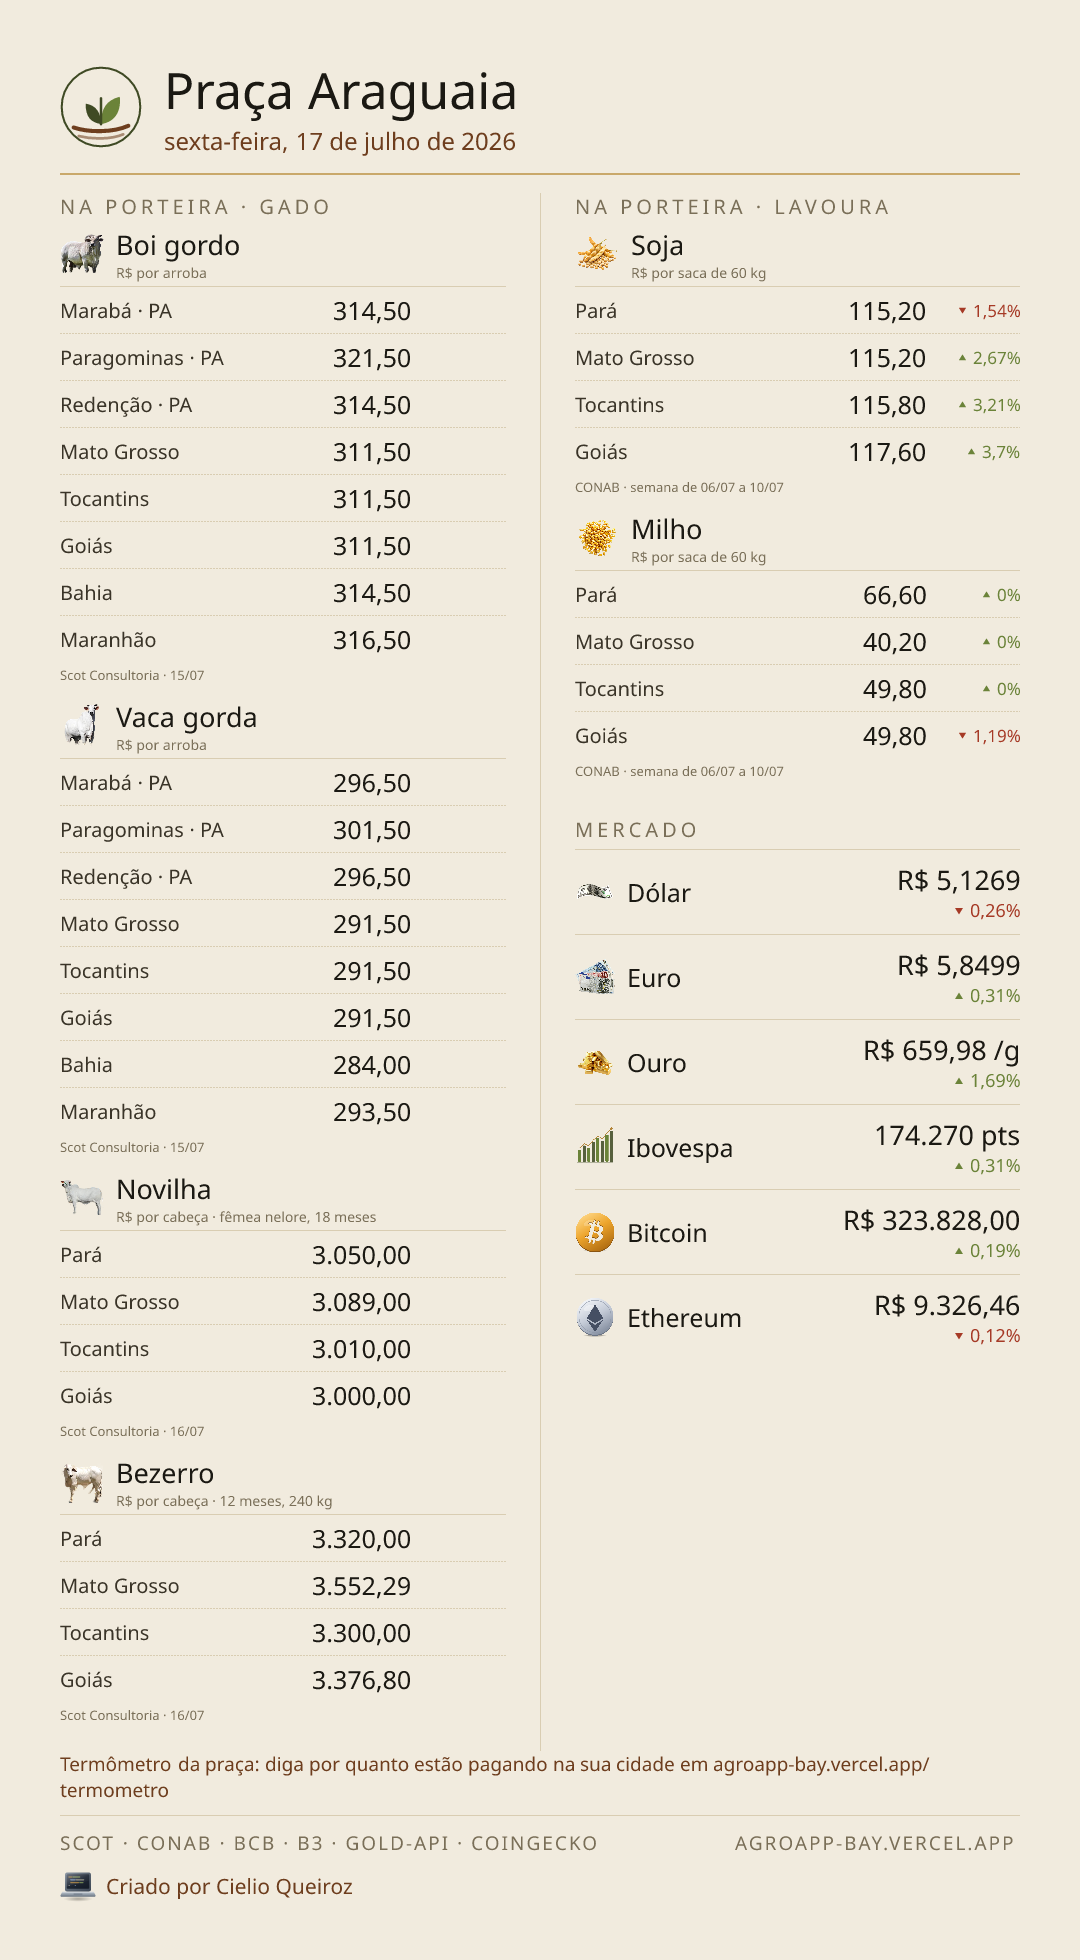
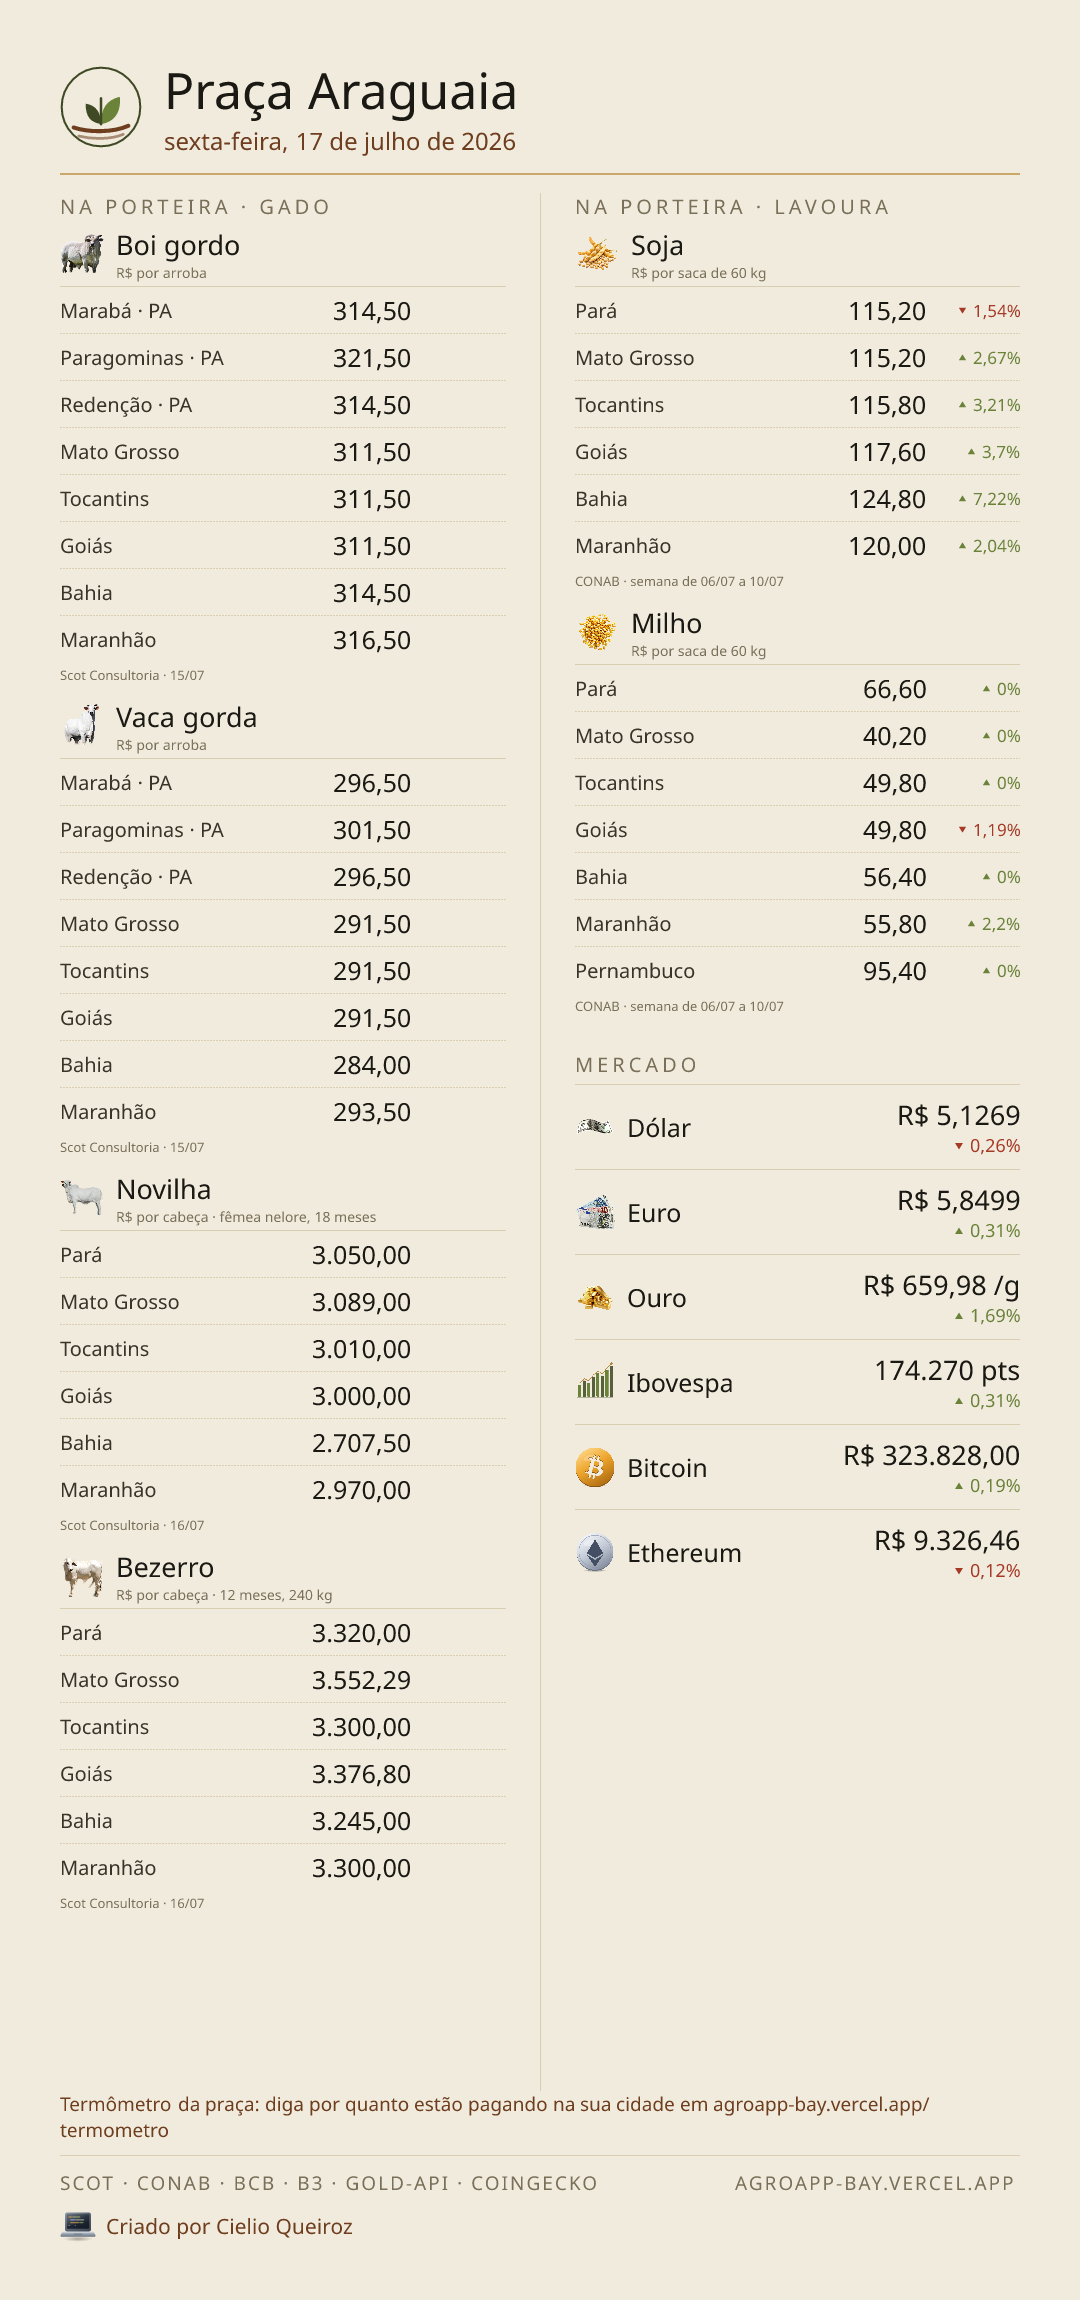
fix(boletim): card mostra todos os estados (Pernambuco no milho, BA/MA nos grãos)
O card recortava os produtos por UF (soja, milho, novilha, bezerro) só à
casa (PA/MT/TO/GO), então Pernambuco não aparecia no milho e BA/MA
sumiam dos grãos — divergindo do site e do que o dono pediu. Agora o
card mostra todos os estados, igual ao site; PE aparece só no milho
(único com dado). A coluna do gado cresceu, então a altura foi de 1960
para 2300 (medida no render, sem estouro no rodapé).

468 testes, build e lint limpos.

diff --git a/app/api/boletim/route.tsx b/app/api/boletim/route.tsx
@@ -7,7 +7,6 @@ import { imagemDoAtivo } from '@/lib/imagens-card';
 import { marcaDataUri } from '@/lib/marca';
 import { programadorDataUri } from '@/lib/autor';
 import { cidadesDoProduto, type ReporteAprovado } from '@/lib/termometro';
-import { ehDoAraguaia } from '@/lib/praca';
 import type { PrecoPraca, PrecoUf } from '@/types/cotacao';
 
 export const dynamic = 'force-dynamic';
@@ -304,23 +303,21 @@ export async function GET(req: Request) {
     cidadesDoProduto(aprovados, produto).map((c) => ({ produto, ...c })),
   );
 
-  // O card é imagem de tamanho fixo: com os sete estados, a porteira passaria de 45
-  // linhas e estouraria (ele já virou 1080x1350 quando eram 12). Ele mostra a CASA —
-  // BA/MA/PE são referência do site, não da foto do dia.
-  const precosUf: PrecoUf[] = (ufs ?? [])
-    .filter((u) => ehDoAraguaia(u.uf as string))
-    .map((u) => ({
-      tipo: u.tipo as string,
-      uf: u.uf as string,
-      valor: Number(u.valor),
-      unidade: u.unidade as string,
-      variacaoPct: u.variacao_pct === null ? null : Number(u.variacao_pct),
-      dataReferencia: u.data_referencia as string,
-    }));
+  // O card mostra TODOS os estados, igual ao site: o dono quis Pernambuco no milho e
+  // Bahia/Maranhão em soja/milho/novilha/bezerro. A altura da imagem é medida no
+  // render para caber tudo (ver a nota no ImageResponse). BA/MA entram por padrão;
+  // PE só aparece no milho, porque é o único com dado de PE — o flatMap omite os
+  // vazios, sem precisar de if.
+  const precosUf: PrecoUf[] = (ufs ?? []).map((u) => ({
+    tipo: u.tipo as string,
+    uf: u.uf as string,
+    valor: Number(u.valor),
+    unidade: u.unidade as string,
+    variacaoPct: u.variacao_pct === null ? null : Number(u.variacao_pct),
+    dataReferencia: u.data_referencia as string,
+  }));
 
-  // Boi e vaca vêm por praça e agora são UMA linha por estado — cabem inteiros, com
-  // Bahia e Maranhão no fim, igual ao site. (Os produtos por UF acima seguem só a
-  // casa: soja/milho por estado ainda somariam muitas linhas.)
+  // Boi e vaca vêm por praça — uma linha por estado, com Bahia e Maranhão no fim.
   const precosPraca: PrecoPraca[] = (pracas ?? [])
     .map((p) => ({
       tipo: p.tipo as string,
@@ -345,16 +342,17 @@ export async function GET(req: Request) {
     precosPraca,
   );
 
-  // Retrato alto: 6 categorias na porteira, 7 de mercado e as cidades do Termômetro.
+  // Retrato alto: 6 categorias na porteira, 6 de mercado e as cidades do Termômetro.
   //
   // A altura é MEDIDA no render, não calculada: o Satori não rola nem corta — o que
-  // não cabe escreve por cima do rodapé. Em 1800 (medida de quando boi e vaca tinham
-  // 4 estados) o Bezerro colidia com a linha do Termômetro, porque a fatia 17 trocou
-  // esses 8 estados por 14 praças. Se a porteira crescer de novo, refaça a medida:
+  // não cabe escreve por cima do rodapé. 1960 servia quando os produtos por UF
+  // mostravam só a casa (PA/MT/TO/GO); ao trazer BA/MA para novilha/bezerro e
+  // BA/MA/PE para soja/milho (igual ao site), a coluna do gado cresceu e o Bezerro
+  // colidia com o rodapé — daí 2300. Se a porteira crescer de novo, refaça a medida:
   // renderize e olhe o pé da coluna da esquerda.
   return new ImageResponse(<CardBoletim boletim={boletim} />, {
     width: 1080,
-    height: 1960,
+    height: 2300,
     headers: { 'cache-control': 'public, s-maxage=3600, stale-while-revalidate=86400' },
   });
 }
